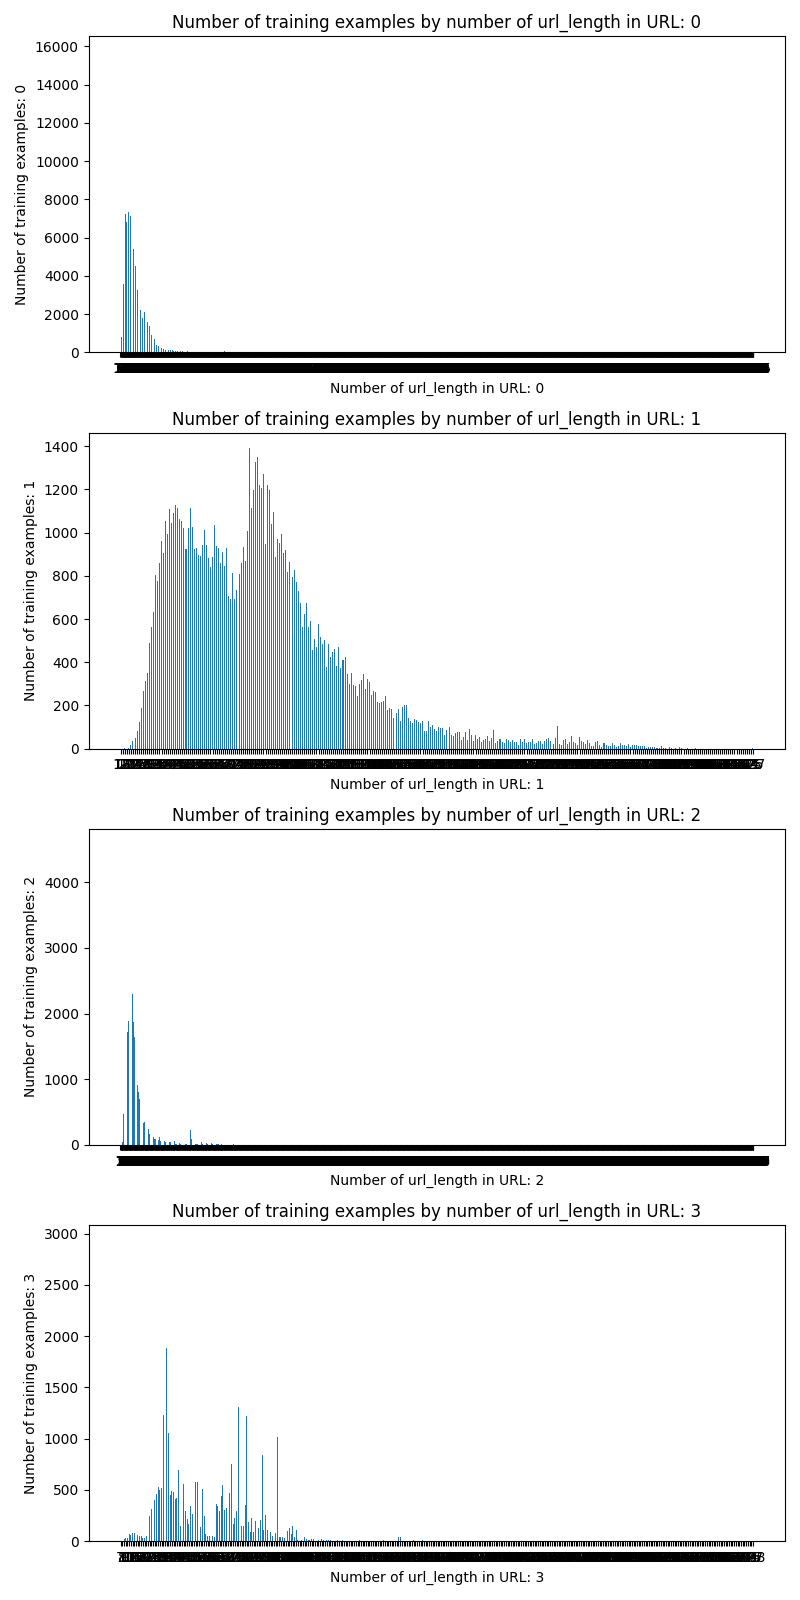
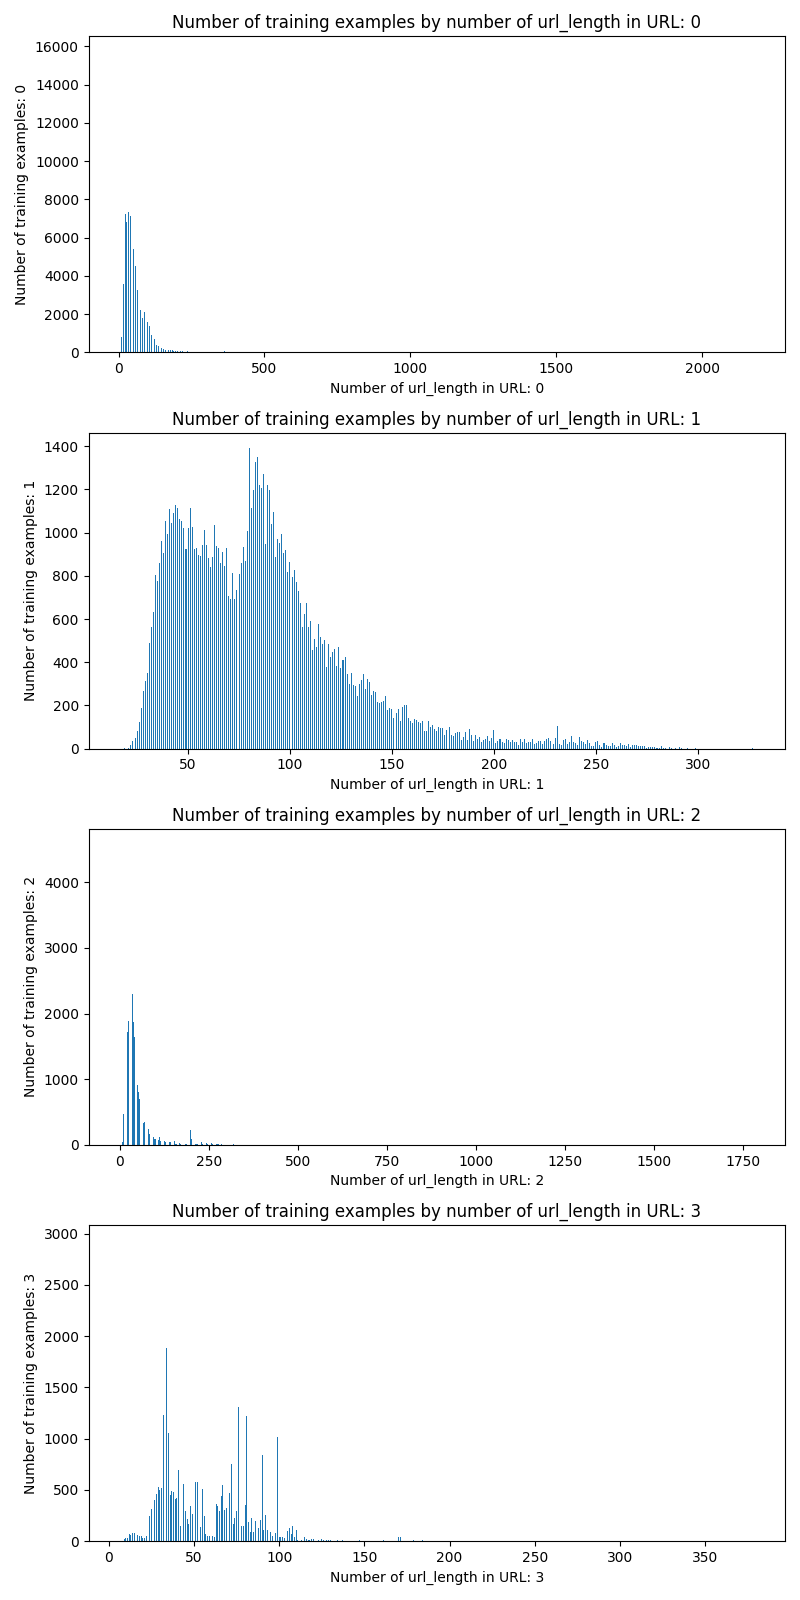
add 2 features

diff --git a/combined.py b/combined.py
@@ -50,11 +50,12 @@ def count_analysis(X, y, feature_name):
         counts_i = X[indices]
         unique_vals, counts = np.unique(counts_i, return_counts=True)
         axs[i].bar(unique_vals, counts, width=0.5)
-        axs[i].set_xticks(np.arange(min(unique_vals), max(unique_vals)+1, 1))
+        # axs[i].set_xticks(np.arange(min(unique_vals), max(unique_vals)+1, 1))
         axs[i].set_xlabel(f"Number of {feature_name} in URL: {i}")
         axs[i].set_ylabel(f"Number of training examples: {i}")
         axs[i].set_title(f"Number of training examples by number of {feature_name} in URL: {i}")
 
+    plt.subplots_adjust(left=0.1, right=0.9, bottom=0.1, top=0.9, wspace=0.2, hspace=0.2)
     plt.tight_layout()
     plt.savefig(f"plots/{feature_name}_distribution.png")
 
@@ -156,6 +157,22 @@ def domain_subdomain_suffix_encoding(df):
     suffix = suffix_vec.fit_transform(suffix)
 
     return domain, subdomain, suffix
+
+# 11) Number of digits
+def get_num_digits(url):
+    return len(re.findall(r'\d', url))
+
+digit_count = df['url'].apply(get_num_digits)
+csr_digit_count = csr_matrix(digit_count).T
+count_analysis(digit_count, y, "digit")
+
+# 12) Number of %
+def get_num_percent(url):
+    return len(re.findall(r'%', url))
+
+percentage_count = df['url'].apply(get_num_percent)
+csr_percentage_count = csr_matrix(percentage_count).T
+count_analysis(percentage_count, y, "%")
 
 csr_domain, csr_subdomain, csr_suffix = domain_subdomain_suffix_encoding(df['url'])
 X = hstack([csr_http, csr_https, csr_www, csr_url_len, csr_domain, csr_subdomain, csr_suffix])

diff --git a/features.py b/features.py
@@ -116,6 +116,9 @@ def domain_subdomain_suffix_encoding(df):
     return domain, subdomain, suffix
 
 csr_domain, csr_subdomain, csr_suffix = domain_subdomain_suffix_encoding(df['url'])
+
+
+
 X = hstack([csr_http, csr_https, csr_www, csr_non_ascii, csr_url_len, csr_has_ip, csr_domain, csr_subdomain, csr_suffix])
 
 # Maybe do evaluation on features? Eg chi2 test, select k best, PCA 
